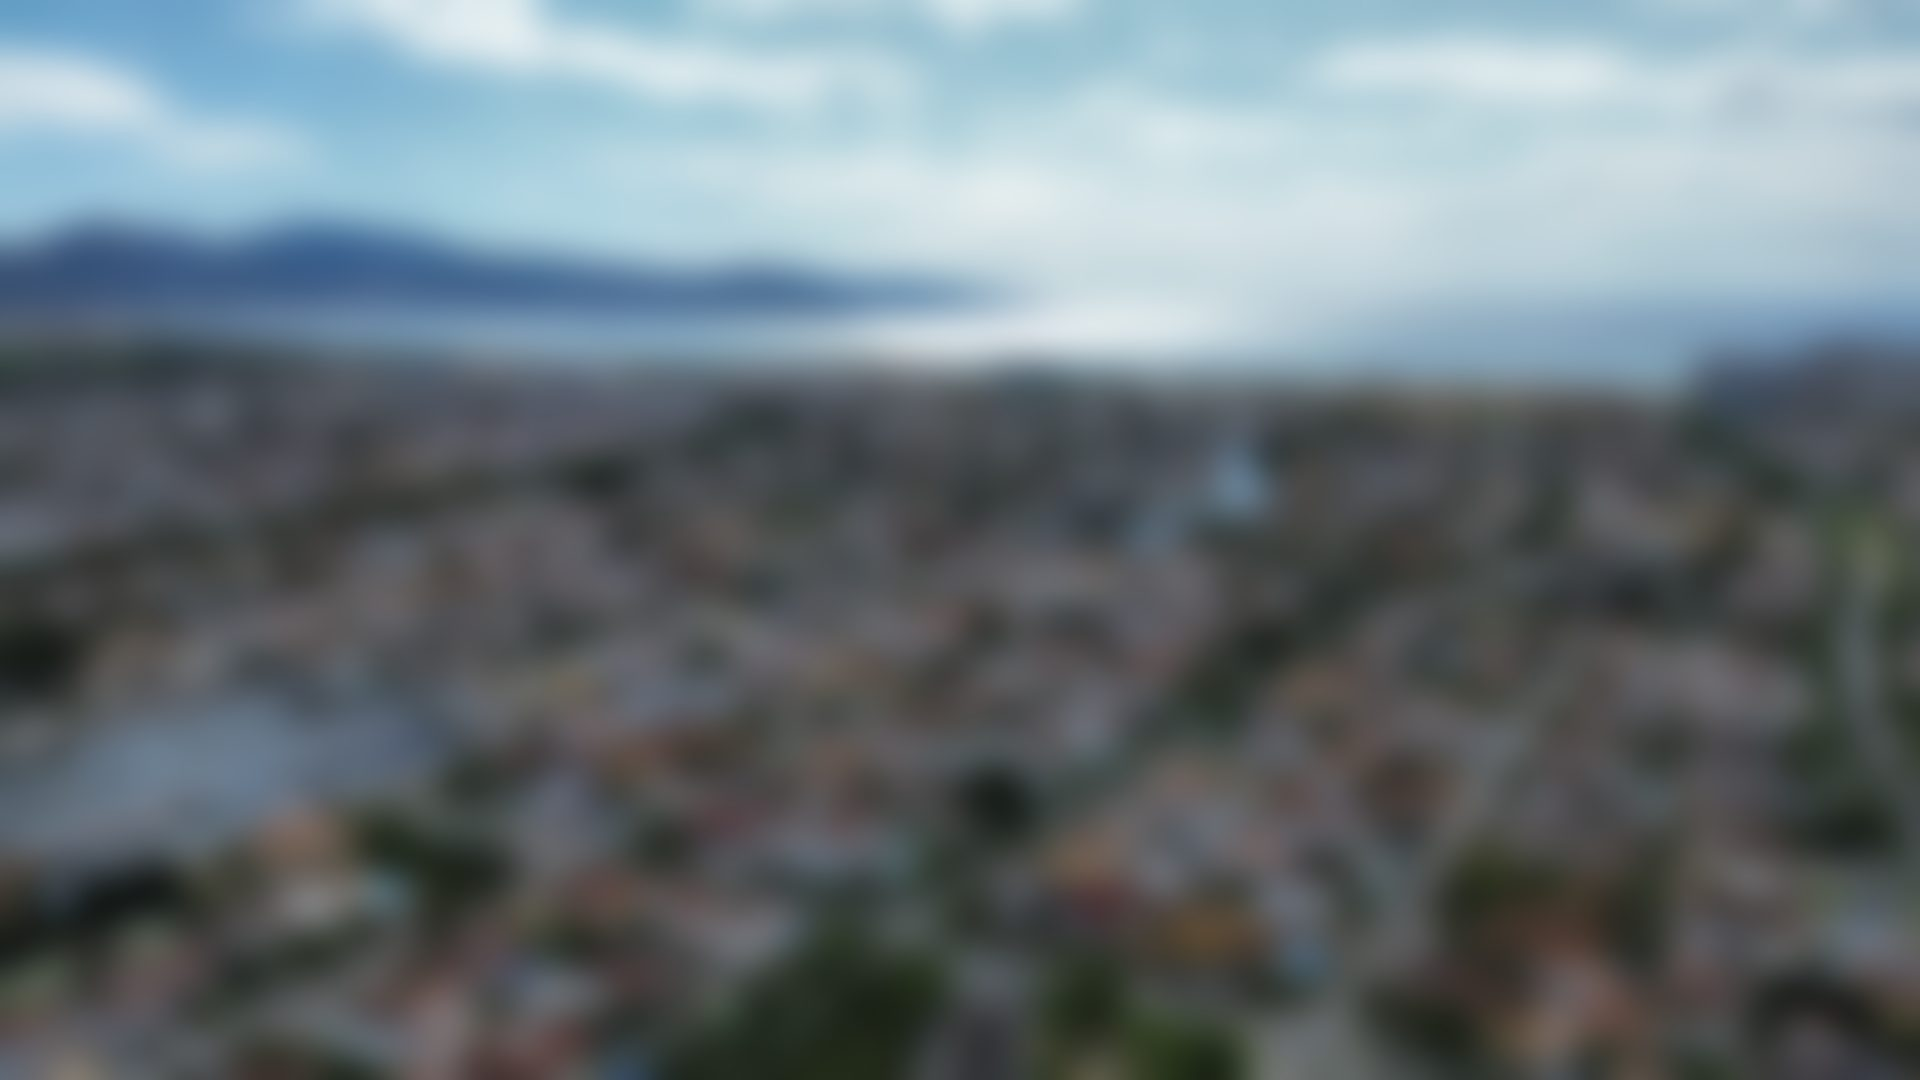
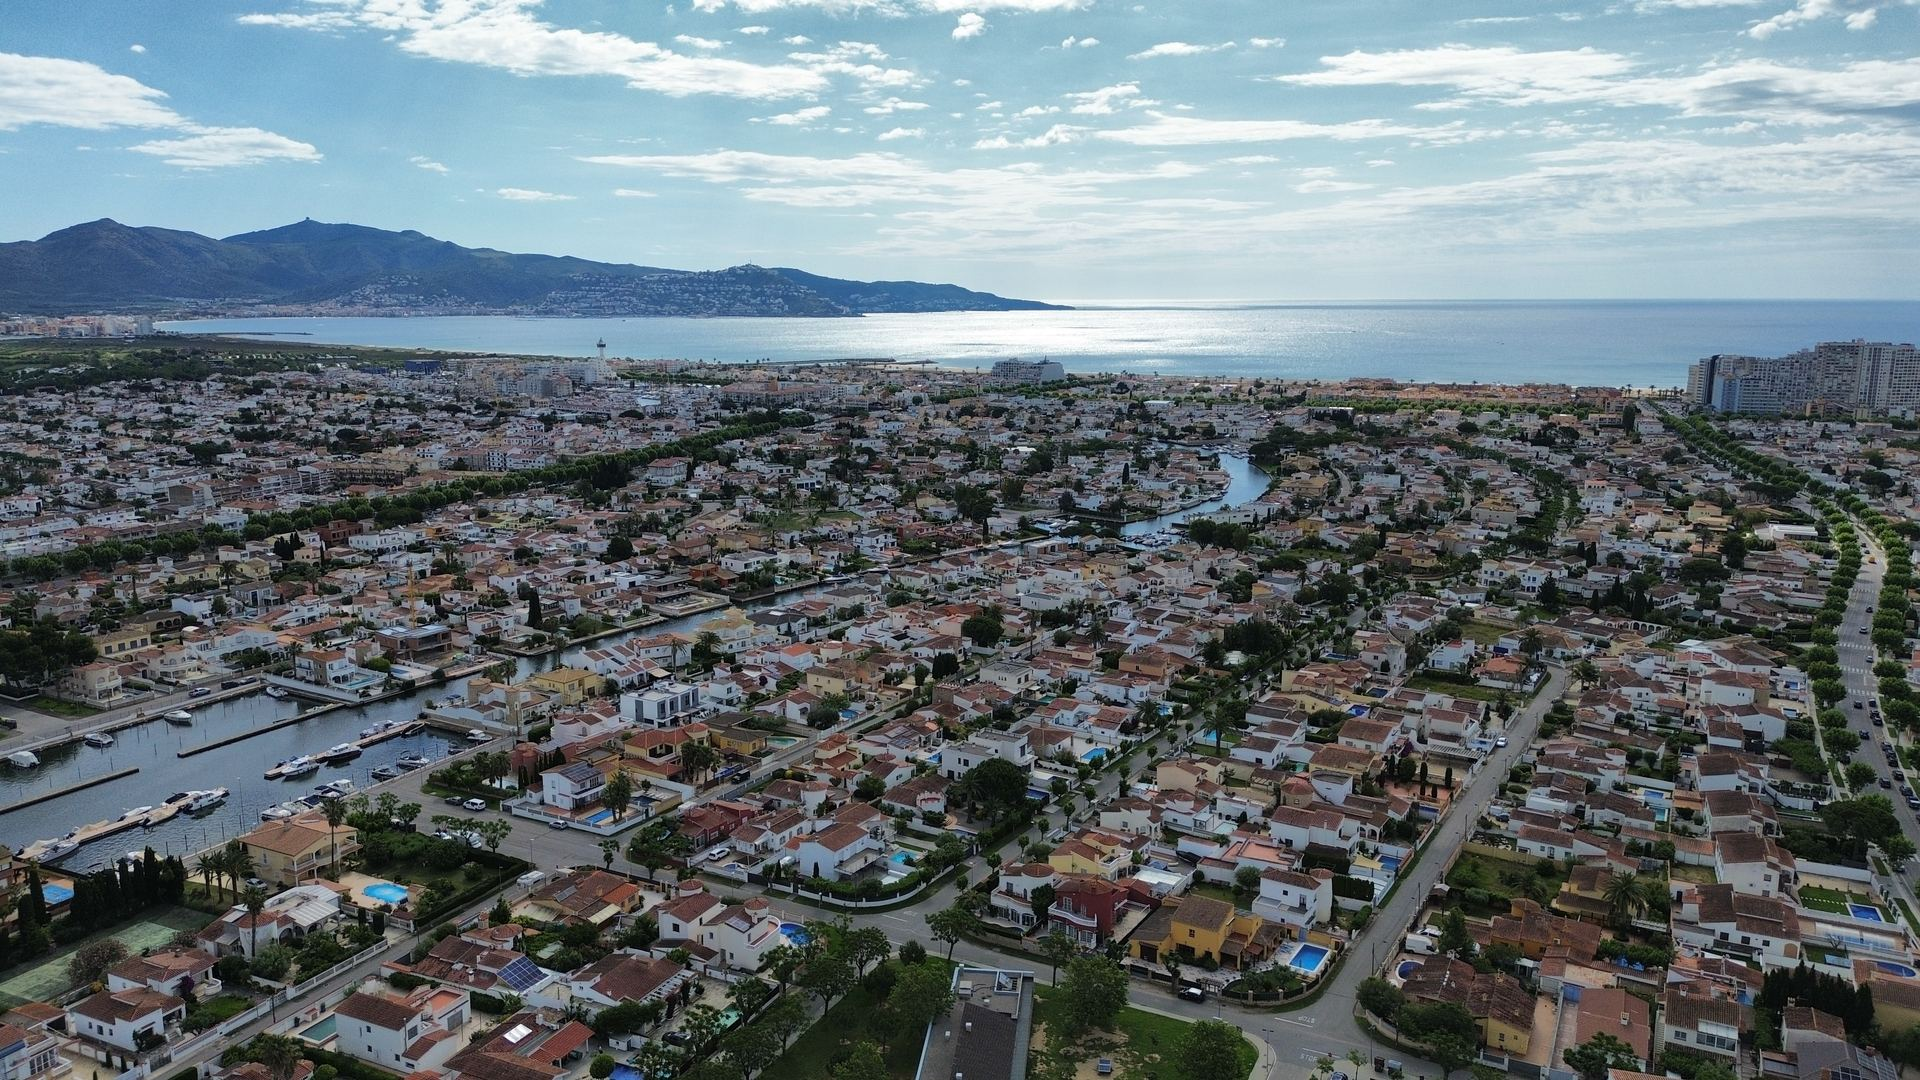
Blur the background in CSS and add a setting to disable it
The backdrops were blurred when they were prepared, so the effect could
not be turned off and the sharp originals were unavailable.

Ship them unblurred and apply the blur as a CSS filter instead, behind a
setting that defaults to on. The image is scaled slightly so the blur
does not bleed transparent edges into the viewport.

Also fixes the backdrop being stretched: it was sized with width and
min-height, which forces both axes and ignores the aspect ratio. Now
uses object-fit: cover.

The unblurred images no longer compress as well, so they are around
350 KiB each rather than 60 KiB.

diff --git a/src/services/settings.ts b/src/services/settings.ts
@@ -79,6 +79,25 @@ class UserInterfaceSettings {
     }
 }
 
+class BackgroundSettings {
+    private readonly settingsService: SettingsService;
+
+    constructor(settingsService: SettingsService) {
+        this.settingsService = settingsService;
+    }
+
+    public getBlur(): boolean {
+        return this.settingsService.retrieveUntrustedKeyValuePair('backgroundBlur', false) !== 'false';
+    }
+
+    public setBlur(blur: boolean): void {
+        this.settingsService.storeUntrustedKeyValuePair('backgroundBlur', blur ? 'true' : 'false');
+
+        // Emit change
+        this.settingsService.backgroundBlurChange.post(blur);
+    }
+}
+
 /**
  * The settings service can update variables for settings and persist them to
  * LocalStorage.
@@ -88,11 +107,13 @@ export class SettingsService {
     private static STORAGE_KEY_PREFIX = 'settings-';
     public readonly composeArea: ComposeAreaSettings;
     public readonly userInterface: UserInterfaceSettings;
+    public readonly background: BackgroundSettings;
     private readonly log: Logger;
     private storage: Storage;
 
     // Events
     public userInterfaceChange = new AsyncEvent<threema.UserInterface>();
+    public backgroundBlurChange = new AsyncEvent<boolean>();
 
     public static $inject = ['$window', 'LogService'];
     constructor($window: ng.IWindowService, logService: LogService) {
@@ -100,6 +121,7 @@ export class SettingsService {
         this.storage = $window.localStorage;
         this.composeArea = new ComposeAreaSettings(this);
         this.userInterface = new UserInterfaceSettings(this);
+        this.background = new BackgroundSettings(this);
     }
 
     /**

diff --git a/src/controllers/theme.ts b/src/controllers/theme.ts
@@ -34,6 +34,9 @@ export class ThemeController {
     // User interface class
     public userInterfaceClass: string;
 
+    // Background class
+    public backgroundClass: string;
+
     public static $inject = ['$scope', 'LogService', 'ThemeService', 'SettingsService'];
     constructor($scope, logService: LogService, themeService: ThemeService, settingsService: SettingsService) {
         // Logging
@@ -57,6 +60,18 @@ export class ThemeController {
             this.log.debug(`Updating user interface class: ${this.userInterfaceClass} -> ${newUserInterfaceClass}`);
             $scope.$apply(() => this.userInterfaceClass = newUserInterfaceClass);
         })
+
+        // Set background class
+        this.backgroundClass = ThemeController.getBackgroundClass(settingsService.background.getBlur());
+
+        // Listen to background blur changes
+        settingsService.backgroundBlurChange.attach((blur: boolean) => {
+            $scope.$apply(() => this.backgroundClass = ThemeController.getBackgroundClass(blur));
+        })
+    }
+
+    private static getBackgroundClass(blur: boolean): string {
+        return blur ? '' : 'background-sharp';
     }
 
     private static getUserInterfaceClass(userInterface: threema.UserInterface): string {

diff --git a/src/partials/messenger.ts b/src/partials/messenger.ts
@@ -250,6 +250,7 @@ class SettingsController extends DialogController {
     private notificationSound: boolean;
     private submitWithCtrlEnter: boolean;
     private minimalUserInterface: boolean;
+    private backgroundBlur: boolean;
 
     public static $inject = [
         '$scope', '$mdDialog', '$window', 'SettingsService', 'ThemeService', 'NotificationService', 'navigation',
@@ -277,6 +278,7 @@ class SettingsController extends DialogController {
             settingsService.composeArea.getSubmitKey() === threema.ComposeAreaSubmitKey.CtrlEnter;
         this.minimalUserInterface =
             settingsService.userInterface.getUserInterface() === threema.UserInterface.Minimal;
+        this.backgroundBlur = settingsService.background.getBlur();
     }
 
     public setWantsNotifications(desktopNotifications: boolean) {
@@ -301,6 +303,10 @@ class SettingsController extends DialogController {
         this.settingsService.userInterface.setUserInterface(minimal
             ? threema.UserInterface.Minimal
             : threema.UserInterface.Default);
+    }
+
+    public setBackgroundBlur(blur: boolean) {
+        this.settingsService.background.setBlur(blur);
     }
 
     public isPersistent(): boolean {

diff --git a/src/partials/dialog.settings.html b/src/partials/dialog.settings.html
@@ -80,6 +80,14 @@
                                 <span translate>settings.ui.MINIMAL_LAYOUT</span>
                             </md-switch>
                         </md-list-item>
+                        <md-list-item>
+                            <md-switch
+                                    ng-model="ctrl.backgroundBlur"
+                                    ng-change="ctrl.setBackgroundBlur(ctrl.backgroundBlur)"
+                                    aria-label="Blur the background image">
+                                <span translate>settings.ui.BACKGROUND_BLUR</span>
+                            </md-switch>
+                        </md-list-item>
                     </md-list>
                 </section>
                 <section class="settings-actions">

diff --git a/index.html b/index.html
@@ -67,7 +67,7 @@
     <link rel="stylesheet" href="css/app.css?v=[[VERSION]]">
 </head>
 
-<body ng-controller="ThemeController as themeCtrl" class="{{ ctrl.statusClass }} {{ themeCtrl.userInterfaceClass }}" ng-class="{expanded: ctrl.expandStatusBar, messenger: ctrl.showMessenger()}" md-theme="{{ themeCtrl.theme }}">
+<body ng-controller="ThemeController as themeCtrl" class="{{ ctrl.statusClass }} {{ themeCtrl.userInterfaceClass }} {{ themeCtrl.backgroundClass }}" ng-class="{expanded: ctrl.expandStatusBar, messenger: ctrl.showMessenger()}" md-theme="{{ themeCtrl.theme }}">
     <img aria-label="Background image: Blurred photo" id="background-image" draggable="false">
     <script src="js/background.js?v=[[VERSION]]"></script>
 

diff --git a/src/sass/layout/_main.scss b/src/sass/layout/_main.scss
@@ -4,13 +4,18 @@
     left: 0;
     z-index: -1;
     width: 100%;
-    min-width: 1024px;
-    height: auto;
-    min-height: 100%;
+    height: 100%;
+    object-fit: cover;
     -moz-user-select: none;
     -webkit-user-select: none;
     user-select: none;
     pointer-events: none;
+
+    // Scaled up so the blur doesn't bleed transparent edges into the viewport
+    body:not(.background-sharp) & {
+        transform: scale(1.05);
+        filter: blur(12px);
+    }
 }
 
 #main-wrapper {
